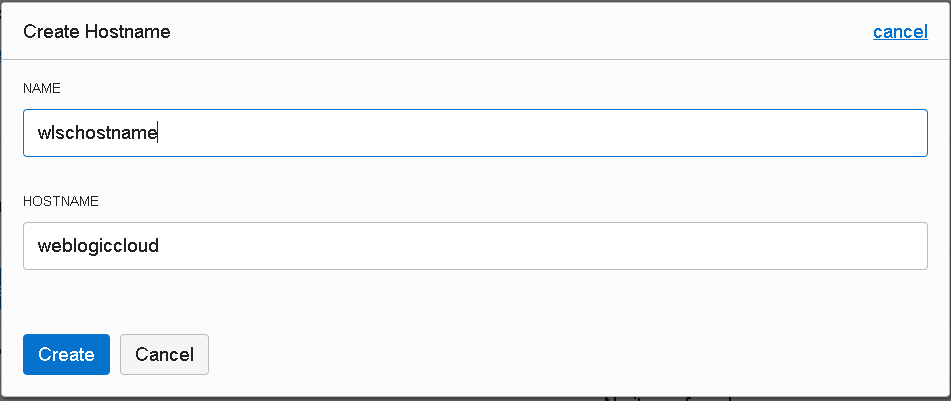
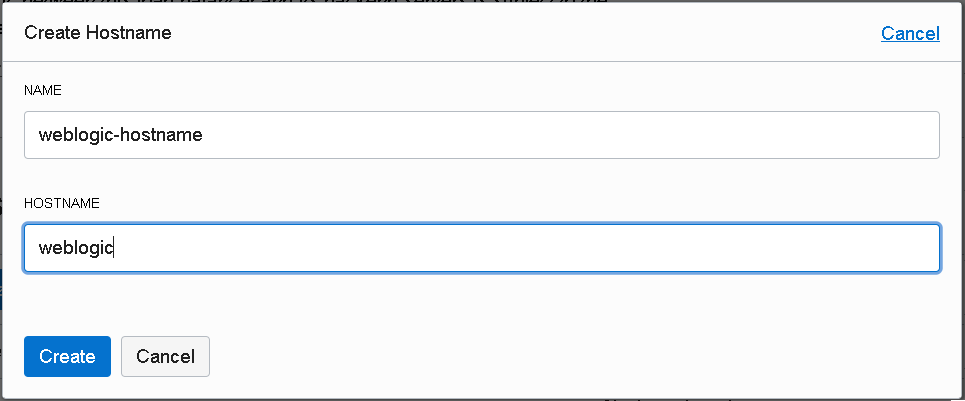
rename certificate and keys and update the lab and prereq

diff --git a/wlscnonjrf.md b/wlscnonjrf.md
@@ -71,7 +71,7 @@ This Hands on Lab will go through the process of creating a non JRF type of WebL
 
   - **Resource Name Prefix**: *WLSCNN* - where **NN** your unique suffix
   - **WebLogic Server Shape**: *VM.Standard2.1*
-  - **SSH Public Key**: copy and paste the content from the provided **wls_ssh_public.key** file; it contains the public key in RSA format; be sure to include the whole content in one line, including *ssh-rsa* part at the beginning
+  - **SSH Public Key**: copy and paste the content from the provided **weblogic_ssh_key.pub** file; it contains the public key in RSA format; be sure to include the whole content in one line, including *ssh-rsa* part at the beginning
 
 
 ![](images/wlscnonjrfwithenv/image100.png)
@@ -154,7 +154,7 @@ This Hands on Lab will go through the process of creating a non JRF type of WebL
 
 
 
-- After a while, the Job should complete with success:
+- After approx. 15 minutes, the Job should complete with success:
 
 ![](images/wlscnonjrfwithenv/image200.png)
 
@@ -170,7 +170,7 @@ This Hands on Lab will go through the process of creating a non JRF type of WebL
 
 - Let's check the WLS admin console of the newly created WebLogic Server; as we have chosen a Public Subnet for the WLS network, both Compute instances that have been created have public IPs associated 
 - Instead of *http://< public IP >:7001/console*, open *https://< public IP >:7002/console*; we'll prevent sending the WebLogic admin credentials in plain text mode, insecurely; (change *http* with **https** and *7001* port with **7002** port)
-- Login with **weblogic** username and the plain text provided password; check the *weblogic_password_plaintext.txt* file
+- Login with **weblogic** username and the provided password; check the *weblogic_password.txt* file
 
 ![](images/wlscnonjrfwithenv/image220.png)
 
@@ -225,8 +225,8 @@ This Hands on Lab will go through the process of creating a non JRF type of WebL
 
 
 - Fill in:
-  - **Name**: *wlschostname*
-  - **Hostname**: *weblogiccloud*
+  - **Name**: *weblogic-hostname*
+  - **Hostname**: *weblogic*
 
 ![](images/wlscnonjrfwithenv/image300.png)
 
@@ -245,17 +245,17 @@ Now, choose *Certificates* from *Resources* sub menu:
 
 
 - Here, we'll add a Load Balancer certificate that it's required for our SSL listener; configure as following:
-  - **Certificate Name**: *weblogiccloud-cert*
-  - **SSL Certificate File**: upload provided *weblogiccloud_cert.pem* file (don't confuse with the *_key.pem* file that contains the private key)
+  - **Certificate Name**: *weblogic-cert*
+  - **SSL Certificate File**: upload provided *weblogic_cert.pem* file (don't confuse with the *_key.pem* file that contains the private key)
   - Tick **Specify CA Certificate**:
 
 ![](images/wlscnonjrfwithenv/image330.png)
 
 
 
-- As we use a demo self signed certificate, upload the same *weblogiccloud_cert.pem* file for **CA Certificate File**;
-- For **Private Key File**, upload the *weblogiccloud_dec_key.pem* file (this file contains the decrypted private key)
-- Enter the provided key passphrase for **Private Key Passphrase**; check *weblogiccloud_key_passphrase.txt* file content
+- As we use a demo self signed certificate, upload the same *weblogic_cert.pem* file for **CA Certificate File**;
+- For **Private Key File**, upload the *weblogic_cert_key_dec.pem* file (this file contains the decrypted private key)
+- Enter the provided key passphrase for **Private Key Passphrase**; check *weblogic_cert_key_passphrase.txt* file content
 - Click **Add Certificate**:
 
 ![](images/wlscnonjrfwithenv/image340.png)
@@ -275,9 +275,9 @@ Now, choose *Certificates* from *Resources* sub menu:
 
 
 - Configure as following and Save Changes:
-  - **Name**: choose existing *wlschostname* hostname
+  - **Name**: choose existing *weblogic-hostname* hostname
   - Tick **USE SSL** checkbox
-  - **Certificate Name**: choose *weblogiccloud-cert*
+  - **Certificate Name**: choose *weblogic-cert*
   - leave default backend set
 
 ![](images/wlscnonjrfwithenv/image370.png)

diff --git a/wlscnonjrfprereq.md b/wlscnonjrfprereq.md
@@ -6,7 +6,7 @@
 
 ## Objective
 
-If you want go through the Hands on Lab (*non JRF type of WebLogic for OCI Instance - using Oracle Cloud Marketplace*) using your cloud environment, follow this guide to setup some prerequisites. If you will use the provided Cloud Test Drive environment, skip this Lab.
+If you want go through the Hands on Lab (*WebLogic for OCI Instance - non JRF using Oracle Cloud Marketplace*) using your cloud environment, follow this guide to setup some prerequisites. If you are going to use the Cloud Test Drive environment (CTD), skip this Lab.
 
 
 
@@ -170,7 +170,7 @@ You can leave default options for Subnet configuration:
 
 
 
-Also for the Load Balancer:
+Also for the Load Balancer (make sure to select **100Mbps** for the *Load Balancer Shape* as instructed in the lab):
 
 ![](images/wlscnonjrfwithenvprereq/image620.png)
 
@@ -184,9 +184,9 @@ You can choose one of the options below:
 
 ### A) Using ssh-keygen
 
-> ssh-keygen -t rsa -b 4096
+> ssh-keygen -t rsa -b 4096 -f weblogic_ssh_key
 
-You'll be asked to specify the filename to save the private key. The public key will be saved at the same location, with the extension .pub added to the private key filename.
+This will create the **weblogic_ssh_key** containing the private key. The public key will be saved at the same location, with the .pub extension added to the private key filename.
 
 
 
@@ -204,7 +204,7 @@ After key generation, don't forget to save the public and private key. If not us
 
 
 
-The public key filename is referred as **wls_ssh_public.key** in the Hands on Lab.
+The public key filename is referred as **weblogic_ssh_key.pub** in the Hands on Lab.
 
 
 
@@ -218,21 +218,21 @@ For security reasons it's a good practice - if not mandatory - to allow only sec
 
 We can use Openssl tool to generate a Self Signed certificate:
 
-> openssl req -x509 -newkey rsa:4096 -keyout weblogiccloud_key.pem -out weblogiccloud_cert.pem -days 365
+> openssl req -x509 -newkey rsa:4096 -keyout weblogic_cert_key.pem -out weblogic_cert.pem -days 365
 
-The openssl dialog will request setting up a PEM pass phrase and several fields for certificate information.
+The openssl dialog will request setting up a PEM pass phrase and several fields for certificate information. You may setup **weblogic** as the value for *Common Name (e.g. server FQDN or YOUR name)* field.
 
-You can choose any PEM pass phrase, the one used by the Hands on Lab is referred from the **weblogiccloud_key_passphrase.txt** text file.
+You can choose any PEM pass phrase, the one used by the Hands on Lab is referred from the **weblogic_cert_key_passphrase.txt** text file.
 
 
 
 Then, we need to decrypt the private key:
 
-> openssl rsa -in weblogiccloud_key.pem -out weblogiccloud_dec_key.pem
+> openssl rsa -in weblogic_cert_key.pem -out weblogic_cert_key_dec.pem
 
 
 
-Note that above examples use the same names for the certificate and private key as in the Hands on Lab: **weblogiccloud_cert.pem** and **weblogiccloud_dec_key.pem**.
+Note: that above examples generate the same file names for the certificate and private key as in the Hands on Lab: **weblogic_cert.pem** and **weblogic_cert_key_dec.pem**.
 
 
 
